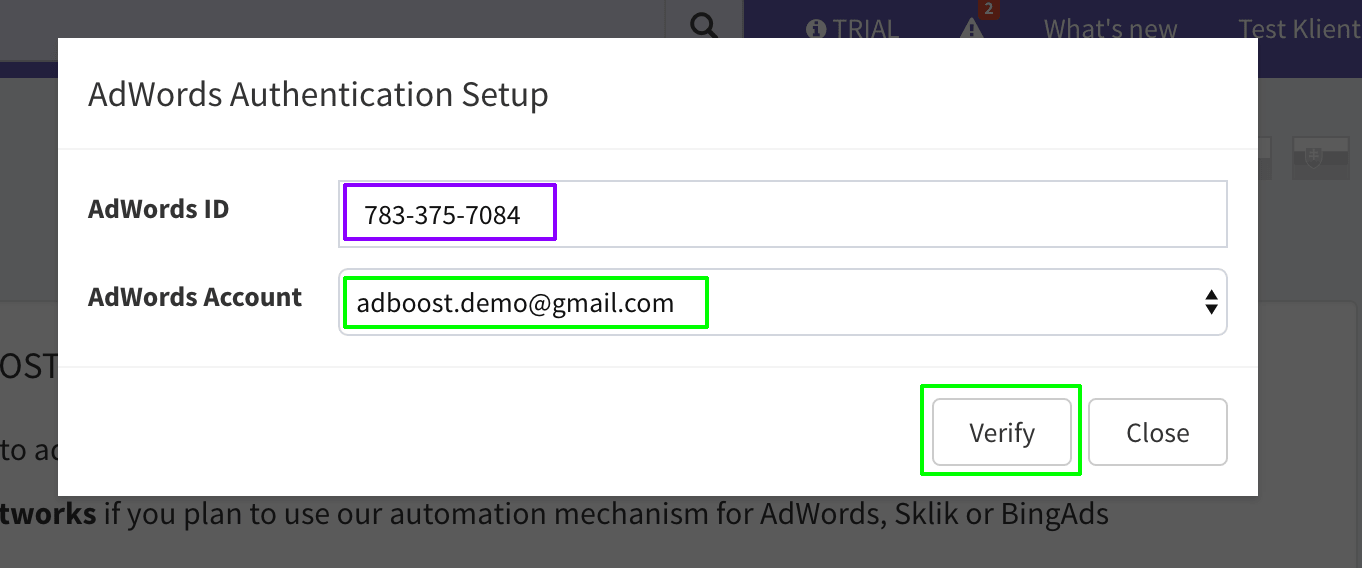
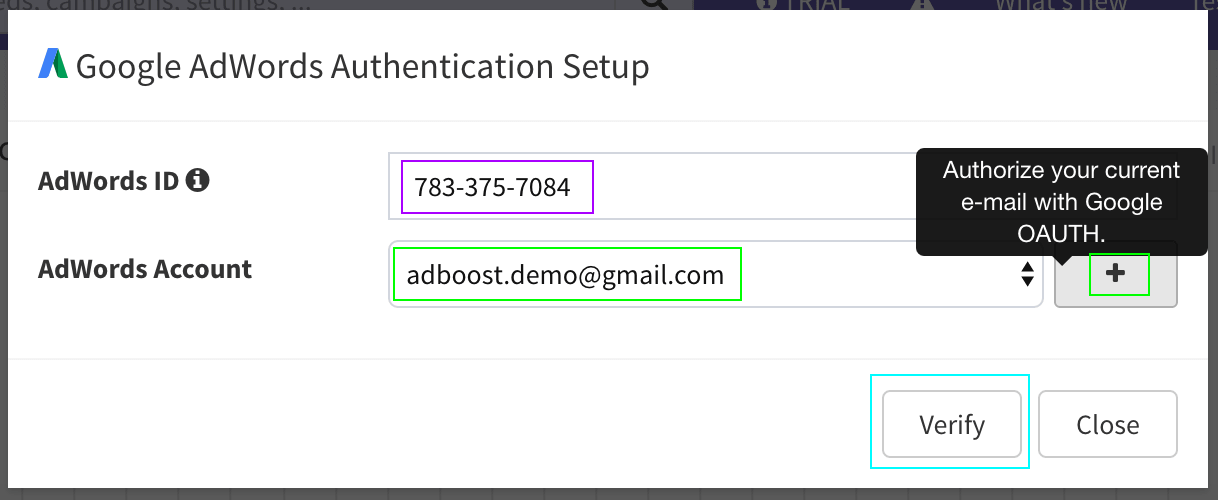
Content update

diff --git a/_posts/2017-02-26-external-advertiser-accounts.md b/_posts/2017-02-26-external-advertiser-accounts.md
@@ -23,17 +23,21 @@ This type of account is one of three types that require OAUTH verification. Warn
 
 {% include image_tag.html url="/images/advertiser_accounts/AdBoostOauths.png" alt="AdBoost Oauths" style="" %}
 
-If you click to "<i class="fa fa-warning text-red"></i> AdWords not paired with your login", you will be redirected to Google's OAUTH page.
+Another place, where you can create Google OAUTH connections for your account at any time is product campaigns dashboard. Here you can see three tiles with titles of PPC advertising networks and smiley face describing status of their connection.
+
+{% include image_tag.html url="/images/advertiser_accounts/AdBoostDashboardConnections.png" alt="AdBoost Dashboard Connections" style="" %}
+
+If you click to "<i class="fa fa-warning text-red"></i> AdWords not paired with your login" or if you use the <i class="fa fa-plus"></i> button inside the dialog invoked by click to the AdWords tile (see [AdWords Account](#adwordsOauth)) on the product campaigns dashboard, you will be redirected to Google's OAUTH page.
 
 {% include image_tag.html url="/images/advertiser_accounts/AdBoostAdWordsOauth.png" alt="AdBoost AdWords Oauth" style="" %}
 
 Here you can see what functionality will be accessible to AdBOOST. If you wish to continue, accept this form with click to "Allow" button. You will be redirected back to AdBOOST dashboard with notification about successful connection establishment. The number in red badge next to the warning icon will also change to reflect current number of connected network accounts.
 
-Now that you have authentificated your current account with Google, you can connect it either to Google AdWords or [Google Analytics](#google-analytics). Let's continue with AdWords. Visit AdBOOST's product campaigns dashboard.
+Now that you have authenticated your current account with Google, you can connect it either to Google AdWords or [Google Analytics](#google-analytics). Let's continue with AdWords. Return to AdBOOST's product campaigns dashboard.
 
 {% include image_tag.html url="/images/advertiser_accounts/LeftMenuDashboard.png" alt="Left Menu Dashboard" style="height:200px;" %}
 
-Here you can see three tiles with titles of PPC advertising networks and smiley face describing status of their connection.
+Navigate towards three tiles with titles of PPC advertising networks and smiley face describing status of their connection.
 
 {% include image_tag.html url="/images/advertiser_accounts/AdBoostDashboardConnections.png" alt="AdBoost Dashboard Connections" style="" %}
 
@@ -41,7 +45,7 @@ Proceed with click to "<i class="network-icon aw"></i> AdWords". You will be pre
 
 {% include image_tag.html url="/images/advertiser_accounts/AdBoostAdWordsConnect.png" alt="AdBoost AdWords Connect" style="height:300px;" %}
 
-**AdWords Account** is a selectbox, where you can choose one of emails that has been connected to your current AdBoost account (you probably want to choose your current email, that you have verified in previous step)
+**AdWords Account** <a name="adwordsOauth"></a> is a selectbox, where you can choose one of emails that have been connected to your current AdBoost account. You probably want to choose your current email, that you might have verified in the previous steps. If you have not, you can still make so by clicking the <i class="fa fa-plus"></i> icon. This will connect your current e-mail (the one you used to log in) with Google OAUTH.
 
 **AdWords ID** is an identifier of your AdWords account. If you do not have one yet, you can create it at: <a href="https://adwords.google.com/" target="_blank">adwords.google.com</a> Afterwards, you can find your AdWords ID in the part of AdWords interface displayed on the screen below.
 
